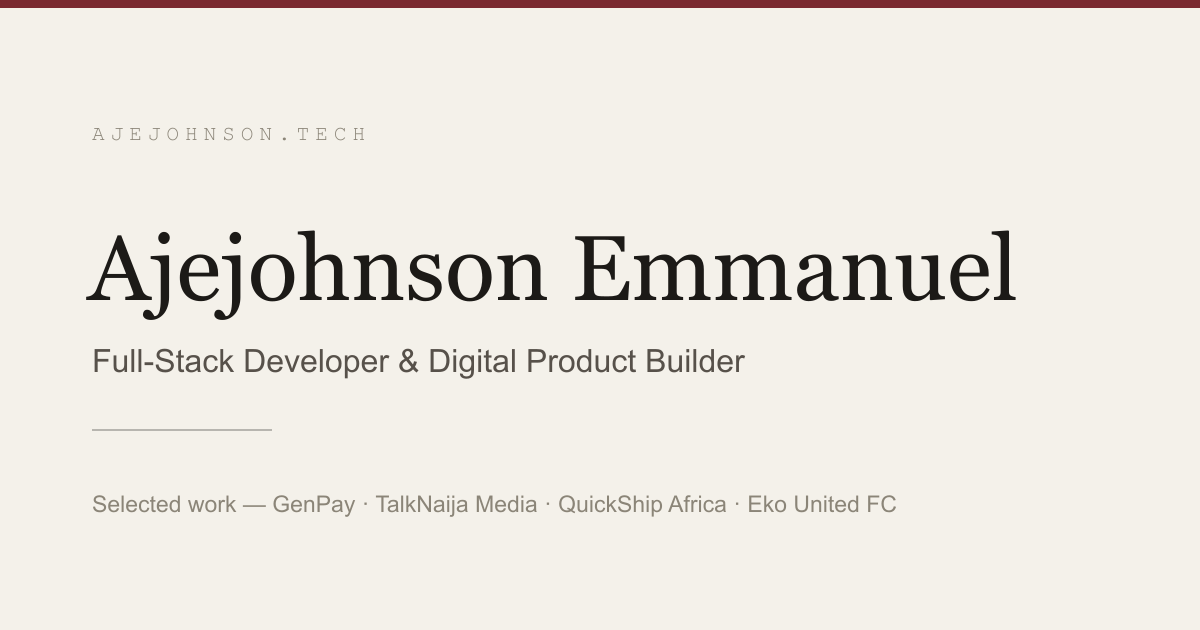
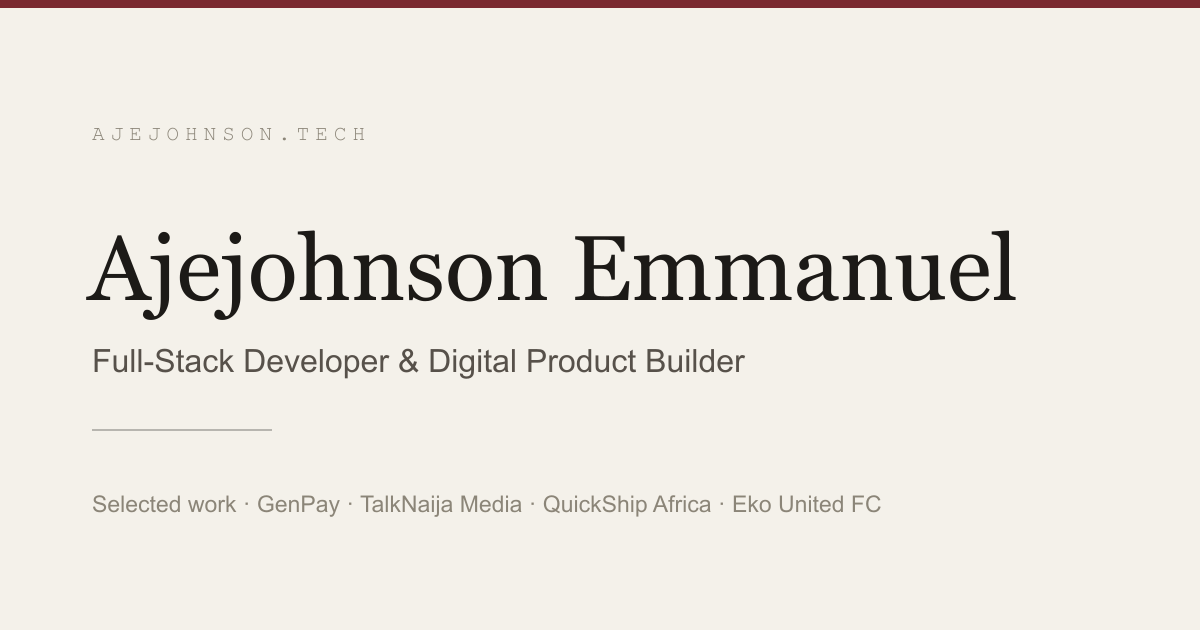
page reformed complete

Changed region(s): [[0.2158, 0.7841, 0.74, 0.8143]]

diff --git a/src/components/Nav.jsx b/src/components/Nav.jsx
@@ -19,6 +19,7 @@ export default function Nav() {
     return () => window.removeEventListener('scroll', onScroll)
   }, [])
 
+  // Lock body scroll while the mobile menu is open.
   useEffect(() => {
     document.body.style.overflow = open ? 'hidden' : ''
     return () => {
@@ -26,77 +27,96 @@ export default function Nav() {
     }
   }, [open])
 
+  // Close the menu on Escape and when the viewport grows to desktop.
+  useEffect(() => {
+    if (!open) return
+    const onKey = (e) => {
+      if (e.key === 'Escape') setOpen(false)
+    }
+    const mq = window.matchMedia('(min-width: 768px)')
+    const onChange = () => mq.matches && setOpen(false)
+    window.addEventListener('keydown', onKey)
+    mq.addEventListener('change', onChange)
+    return () => {
+      window.removeEventListener('keydown', onKey)
+      mq.removeEventListener('change', onChange)
+    }
+  }, [open])
+
+  const barBase =
+    'absolute left-0 h-[2px] w-6 bg-ink transition-all duration-300 ease-out'
+
   return (
-    <header
-      className={`fixed inset-x-0 top-0 z-50 transition-colors duration-300 ${
-        scrolled || open
-          ? 'bg-paper/90 backdrop-blur-sm border-b border-line'
-          : 'border-b border-transparent'
-      }`}
-    >
-      <div className="shell flex h-20 items-center justify-between">
-        <a
-          href="#top"
-          className="font-display text-lg tracking-tight text-ink"
-          aria-label={`${site.name} — back to top`}
-        >
-          Ajejohnson<span className="text-accent">.</span>
-        </a>
-
-        <nav className="hidden items-center gap-9 md:flex" aria-label="Primary">
-          {LINKS.map((l) => (
-            <a
-              key={l.href}
-              href={l.href}
-              className="link-underline text-sm text-ink-soft transition-colors hover:text-ink"
-            >
-              {l.label}
-            </a>
-          ))}
+    <>
+      <header
+        className={`fixed inset-x-0 top-0 z-50 transition-colors duration-300 ${
+          scrolled || open
+            ? 'border-b border-line bg-paper/90 backdrop-blur-sm'
+            : 'border-b border-transparent'
+        }`}
+      >
+        <div className="shell flex h-20 items-center justify-between">
           <a
-            href={`mailto:${site.email}`}
-            className="text-sm font-medium text-ink link-underline"
+            href="#top"
+            onClick={() => setOpen(false)}
+            className="font-display text-lg tracking-tight text-ink"
+            aria-label={`${site.name}, back to top`}
           >
-            {site.email}
+            Ajejohnson<span className="text-accent">.</span>
           </a>
-        </nav>
 
-        <button
-          type="button"
-          onClick={() => setOpen((v) => !v)}
-          className="relative z-50 flex h-10 w-10 items-center justify-center md:hidden"
-          aria-label={open ? 'Close menu' : 'Open menu'}
-          aria-expanded={open}
-        >
-          <span className="relative block h-3.5 w-6">
-            <span
-              className={`absolute left-0 block h-px w-6 bg-ink transition-transform duration-300 ${
-                open ? 'top-1/2 rotate-45' : 'top-0'
-              }`}
-            />
-            <span
-              className={`absolute left-0 top-1/2 block h-px w-6 bg-ink transition-opacity duration-200 ${
-                open ? 'opacity-0' : 'opacity-100'
-              }`}
-            />
-            <span
-              className={`absolute left-0 block h-px w-6 bg-ink transition-transform duration-300 ${
-                open ? 'top-1/2 -rotate-45' : 'top-full'
-              }`}
-            />
-          </span>
-        </button>
-      </div>
+          <nav className="hidden items-center gap-9 md:flex" aria-label="Primary">
+            {LINKS.map((l) => (
+              <a
+                key={l.href}
+                href={l.href}
+                className="link-underline text-sm text-ink-soft transition-colors hover:text-ink"
+              >
+                {l.label}
+              </a>
+            ))}
+            <a
+              href={`mailto:${site.email}`}
+              className="link-underline text-sm font-medium text-ink"
+            >
+              {site.email}
+            </a>
+          </nav>
 
-      {/* Mobile overlay */}
+          <button
+            type="button"
+            onClick={() => setOpen((v) => !v)}
+            className="-mr-2 flex h-11 w-11 items-center justify-center md:hidden"
+            aria-label={open ? 'Close menu' : 'Open menu'}
+            aria-expanded={open}
+            aria-controls="mobile-menu"
+          >
+            <span aria-hidden="true" className="relative block h-4 w-6">
+              <span
+                className={`${barBase} ${open ? 'top-[7px] rotate-45' : 'top-[2px]'}`}
+              />
+              <span
+                className={`${barBase} top-[7px] ${open ? 'opacity-0' : 'opacity-100'}`}
+              />
+              <span
+                className={`${barBase} ${open ? 'top-[7px] -rotate-45' : 'top-[12px]'}`}
+              />
+            </span>
+          </button>
+        </div>
+      </header>
+
+      {/* Mobile menu: sibling of <header> so the blurred header never becomes
+          its containing block and collapses it to the bar height. */}
       <div
+        id="mobile-menu"
         aria-hidden={!open}
         className={`fixed inset-0 z-40 bg-paper transition-[opacity,visibility] duration-300 md:hidden ${
           open ? 'visible opacity-100' : 'invisible opacity-0'
         }`}
       >
         <nav
-          className="shell flex h-full flex-col justify-center gap-2 pb-16"
+          className="shell flex h-full flex-col justify-center gap-1 pb-16"
           aria-label="Mobile"
         >
           {LINKS.map((l, i) => (
@@ -104,7 +124,7 @@ export default function Nav() {
               key={l.href}
               href={l.href}
               onClick={() => setOpen(false)}
-              className="font-display text-4xl text-ink transition-colors"
+              className="font-display text-4xl leading-tight text-ink"
               style={{ transitionDelay: open ? `${80 + i * 40}ms` : '0ms' }}
             >
               {l.label}
@@ -119,6 +139,6 @@ export default function Nav() {
           </a>
         </nav>
       </div>
-    </header>
+    </>
   )
 }

diff --git a/index.html b/index.html
@@ -9,10 +9,10 @@
     <link rel="apple-touch-icon" href="/apple-touch-icon.png" />
     <link rel="manifest" href="/site.webmanifest" />
 
-    <title>Ajejohnson Emmanuel — Full-Stack Developer & Digital Product Builder</title>
+    <title>Ajejohnson Emmanuel · Full-Stack Developer & Digital Product Builder</title>
     <meta
       name="description"
-      content="Ajejohnson Emmanuel is a full-stack developer and digital product builder. I design and build web products end to end — the interface, the API, and the systems that keep them running."
+      content="Ajejohnson Emmanuel is a full-stack developer and digital product builder. I design and build web products end to end: the interface, the API, and the systems that keep them running."
     />
     <meta name="author" content="Ajejohnson Emmanuel" />
     <meta name="theme-color" content="#f4f1ea" />
@@ -23,7 +23,7 @@
     <meta property="og:type" content="website" />
     <meta property="og:site_name" content="Ajejohnson Emmanuel" />
     <meta property="og:url" content="https://ajejohnson.tech/" />
-    <meta property="og:title" content="Ajejohnson Emmanuel — Full-Stack Developer & Digital Product Builder" />
+    <meta property="og:title" content="Ajejohnson Emmanuel · Full-Stack Developer & Digital Product Builder" />
     <meta
       property="og:description"
       content="Full-stack developer and digital product builder. I take web products from a rough brief to something live and dependable."
@@ -31,12 +31,12 @@
     <meta property="og:image" content="https://ajejohnson.tech/og-image.png" />
     <meta property="og:image:width" content="1200" />
     <meta property="og:image:height" content="630" />
-    <meta property="og:image:alt" content="Ajejohnson Emmanuel — Full-Stack Developer & Digital Product Builder" />
+    <meta property="og:image:alt" content="Ajejohnson Emmanuel · Full-Stack Developer & Digital Product Builder" />
     <meta property="og:locale" content="en_US" />
 
     <!-- Twitter -->
     <meta name="twitter:card" content="summary_large_image" />
-    <meta name="twitter:title" content="Ajejohnson Emmanuel — Full-Stack Developer & Digital Product Builder" />
+    <meta name="twitter:title" content="Ajejohnson Emmanuel · Full-Stack Developer & Digital Product Builder" />
     <meta
       name="twitter:description"
       content="Full-stack developer and digital product builder. I take web products from a rough brief to something live and dependable."

diff --git a/src/data/projects.js b/src/data/projects.js
@@ -12,7 +12,7 @@ import fembos from '../assets/images/work/opt/fembos.webp'
 import fembosSm from '../assets/images/work/opt/fembos-sm.webp'
 
 /**
- * Ordered by how strongly each project demonstrates the range of the work —
+ * Ordered by how strongly each project demonstrates the range of the work,
  * not chronologically. The first four carry full case-study layouts; the
  * last two sit in a compact secondary row.
  */
@@ -24,7 +24,7 @@ export const projects = [
     role: 'Full-stack development, with Tekuvo and Marvex',
     stack: ['React', 'Tailwind CSS', 'Node.js', 'MongoDB', 'Paystack'],
     description:
-      'GenPay is a platform for discovering events and handling tickets end to end — browsing what is on, buying and reselling tickets, and managing an account around it. It is built to behave like a product, not a brochure.',
+      'GenPay is a platform for discovering events and handling tickets end to end: browsing what is on, buying and reselling tickets, and managing an account around it. It is built to behave like a product, not a brochure.',
     contributions: [
       'Event discovery and browsing',
       'Ticket purchase and resale flows',
@@ -81,7 +81,7 @@ export const projects = [
     role: 'Full-stack development',
     stack: ['React', 'Node.js', 'MongoDB', 'Tailwind CSS'],
     description:
-      'The official site for a Lagos football club — club news, fixtures and results, a squad section, and shop and ticketing entry points, held together under one identity.',
+      'The official site for a Lagos football club, with club news, fixtures and results, a squad section, and shop and ticketing entry points, held together under one identity.',
     contributions: [
       'News and press-release publishing',
       'Fixtures, results and squad sections',

diff --git a/src/components/About.jsx b/src/components/About.jsx
@@ -37,17 +37,17 @@ export default function About() {
             <div className="mt-8 space-y-5 text-lg leading-relaxed text-ink-soft">
               <p>
                 I&rsquo;m a full-stack developer. In practice that means I&rsquo;m
-                comfortable anywhere in a project &mdash; building interfaces in
-                React, writing the APIs and data models behind them in Node, and
-                setting up the payments, authentication and admin tools that turn
-                a demo into something a business can run on.
+                comfortable anywhere in a project: building interfaces in React,
+                writing the APIs and data models behind them in Node, and setting
+                up the payments, authentication and admin tools that turn a demo
+                into something a business can run on.
               </p>
               <p>
                 Most of my work is building products with founders and small
                 teams: taking a rough idea, working out what it actually needs to
                 do, and shipping a version that holds up. I pay attention to the
-                things people feel &mdash; how quickly a page loads, whether a
-                form makes sense, what happens when something goes wrong.
+                things people feel: how quickly a page loads, whether a form
+                makes sense, what happens when something goes wrong.
               </p>
               <p>
                 I like working directly with the people whose business depends on

diff --git a/src/components/SelectedWork.jsx b/src/components/SelectedWork.jsx
@@ -12,7 +12,7 @@ export default function SelectedWork() {
           index="01"
           id="Selected work"
           title="The projects that best show what I can build."
-          lead="A short list on purpose. Six products and sites, chosen for range rather than count — commerce, publishing, logistics, healthcare and more, each taken from brief to live."
+          lead="A short list on purpose. Six products and sites, chosen for range rather than count: commerce, publishing, logistics, healthcare and more, each taken from brief to live."
         />
 
         <div className="mt-20 space-y-24 sm:mt-24 sm:space-y-32">
@@ -33,8 +33,8 @@ export default function SelectedWork() {
             <span className="eyebrow">Also built</span>
           </div>
           <p className="mt-6 max-w-2xl text-lg leading-relaxed text-ink-soft">
-            Two more sites where the work was mostly design and front-end &mdash;
-            still shipped, still in use.
+            Two more sites where the work was mostly design and front-end. Still
+            shipped, still in use.
           </p>
         </Reveal>
 

diff --git a/src/components/Hero.jsx b/src/components/Hero.jsx
@@ -15,11 +15,11 @@ export default function Hero() {
 
         <div className="mt-10 grid gap-x-16 gap-y-8 sm:mt-14 lg:grid-cols-[1.1fr_0.9fr]">
           <p className="max-w-xl text-lg leading-relaxed text-ink-soft sm:text-xl">
-            I&rsquo;m {site.name} &mdash; a developer who works across the whole
-            stack: the interface people use, the APIs and data behind it, and the
-            parts that keep it running once it&rsquo;s live. I build with
-            businesses, founders and teams who need something real shipped, not
-            just designed.
+            I&rsquo;m {site.name}, a developer who works across the whole stack:
+            the interface people use, the APIs and data behind it, and the parts
+            that keep it running once it&rsquo;s live. I build with businesses,
+            founders and teams who need something real shipped, not just
+            designed.
           </p>
 
           <div className="flex flex-col justify-end gap-4">

diff --git a/src/components/FeaturedProject.jsx b/src/components/FeaturedProject.jsx
@@ -19,8 +19,8 @@ function Heading({ project, n }) {
 }
 
 /**
- * `wide`  — image spans the column, details sit beneath in two columns.
- * `split` — image and details share a row, alternating side each time.
+ * `wide`  : image spans the column, details sit beneath in two columns.
+ * `split` : image and details share a row, alternating side each time.
  */
 export default function FeaturedProject({ project, n, layout = 'split', flip = false }) {
   if (layout === 'wide') {

diff --git a/src/App.jsx b/src/App.jsx
@@ -11,7 +11,7 @@ import SignatureFooter from './components/SignatureFooter'
 /**
  * Deep links (e.g. /#contact) need re-aligning as late-loading fonts and
  * images reflow the page under the anchor. Re-run the jump a few times over
- * the first second, and once more when fonts settle — but never after the
+ * the first second, and once more when fonts settle, but never after the
  * visitor has started scrolling themselves.
  */
 function useHashAlign() {

diff --git a/src/components/Capabilities.jsx b/src/components/Capabilities.jsx
@@ -3,7 +3,7 @@ import Reveal from './Reveal'
 const CAPABILITIES = [
   {
     title: 'Full-stack development',
-    body: 'One person across the whole build — interface, API, database and deployment — so the parts fit together.',
+    body: 'One person across the whole build: interface, API, database and deployment, so the parts fit together.',
   },
   {
     title: 'Frontend development',

diff --git a/src/components/SignatureFooter.jsx b/src/components/SignatureFooter.jsx
@@ -20,7 +20,7 @@ export default function SignatureFooter() {
             src={signature}
             width="465"
             height="117"
-            alt={`${site.name} — signature`}
+            alt={`${site.name} signature`}
             className="h-auto w-[clamp(220px,42vw,440px)]"
             loading="lazy"
             decoding="async"

diff --git a/src/index.css b/src/index.css
@@ -49,7 +49,7 @@
     -moz-osx-font-smoothing: grayscale;
     text-rendering: optimizeLegibility;
     font-feature-settings: "kern", "liga", "calt";
-    /* clip, not hidden — hidden on body spawns a nested scroll container */
+    /* clip, not hidden: hidden on body spawns a nested scroll container */
     overflow-x: clip;
   }
 

diff --git a/README.md b/README.md
@@ -1,13 +1,13 @@
 # ajejohnson.tech
 
-Personal portfolio for Ajejohnson Emmanuel — full-stack developer and digital
+Personal portfolio for Ajejohnson Emmanuel, full-stack developer and digital
 product builder.
 
 ## Stack
 
 - **Vite** + **React 19**
 - **Tailwind CSS v4** (`@tailwindcss/vite`, tokens in `src/index.css`)
-- **sharp** — build-time image / asset generation only (dev dependency)
+- **sharp** for build-time image / asset generation only (dev dependency)
 
 No router, no animation library. One page, composed from sections in
 `src/components/`.
@@ -30,8 +30,8 @@ npm run preview
 
 All copy and project data live in two files:
 
-- `src/data/site.js` — name, role, email, location, social links
-- `src/data/projects.js` — the six projects (order, copy, roles, stack, links)
+- `src/data/site.js` for name, role, email, location, social links
+- `src/data/projects.js` for the six projects (order, copy, roles, stack, links)
 
 ## Images
 
